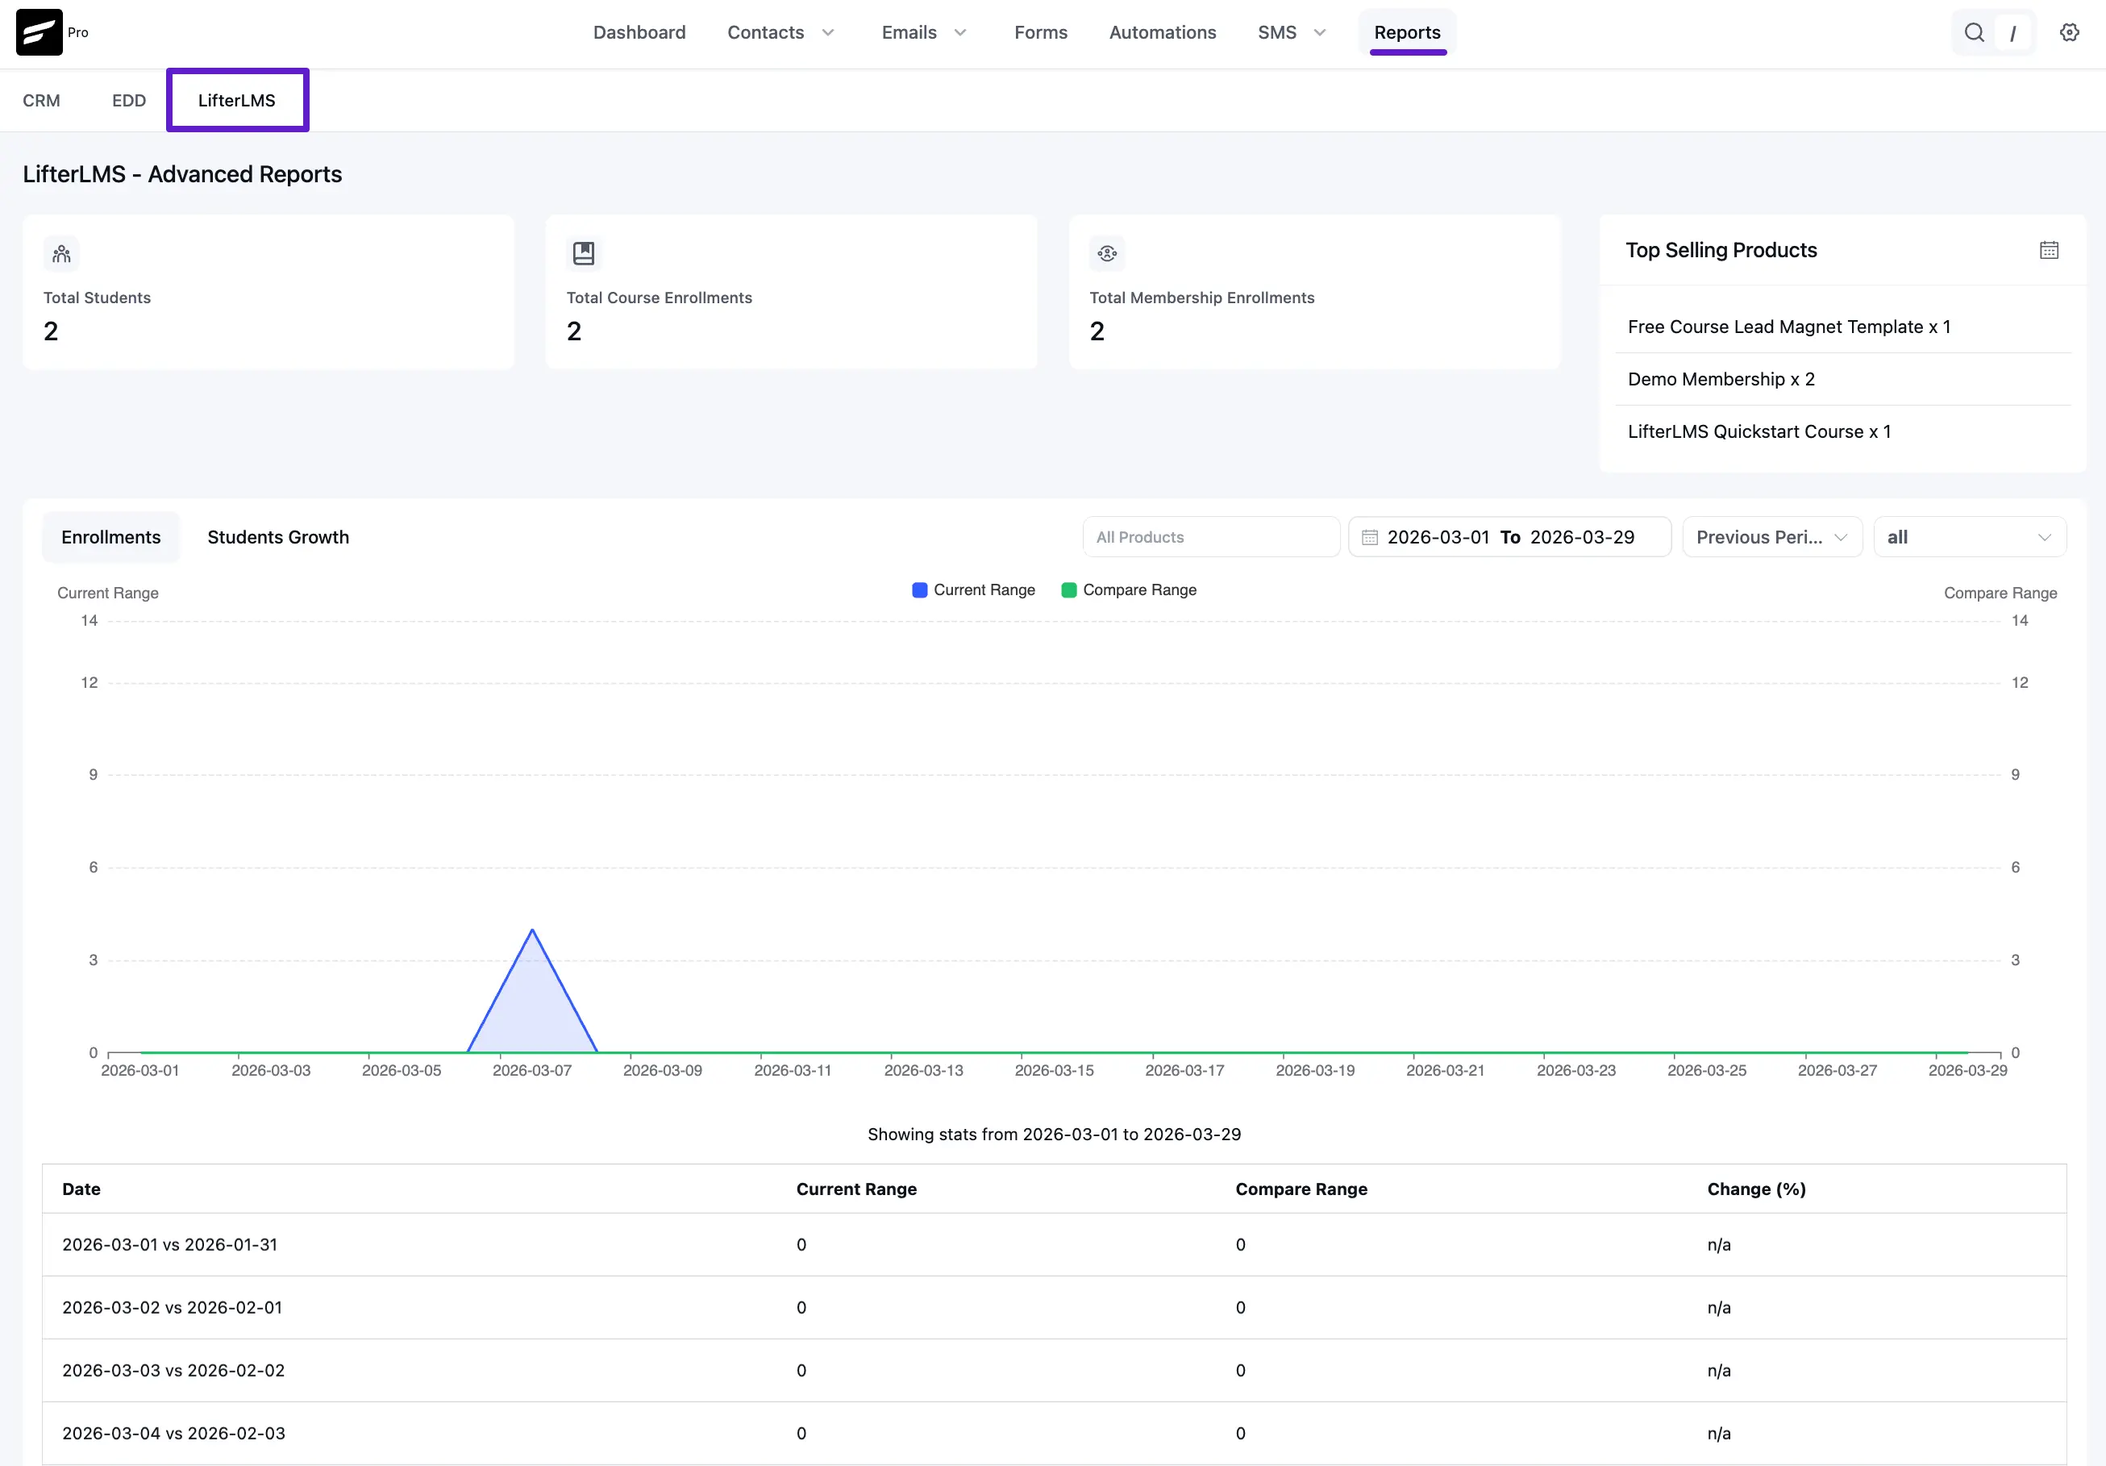
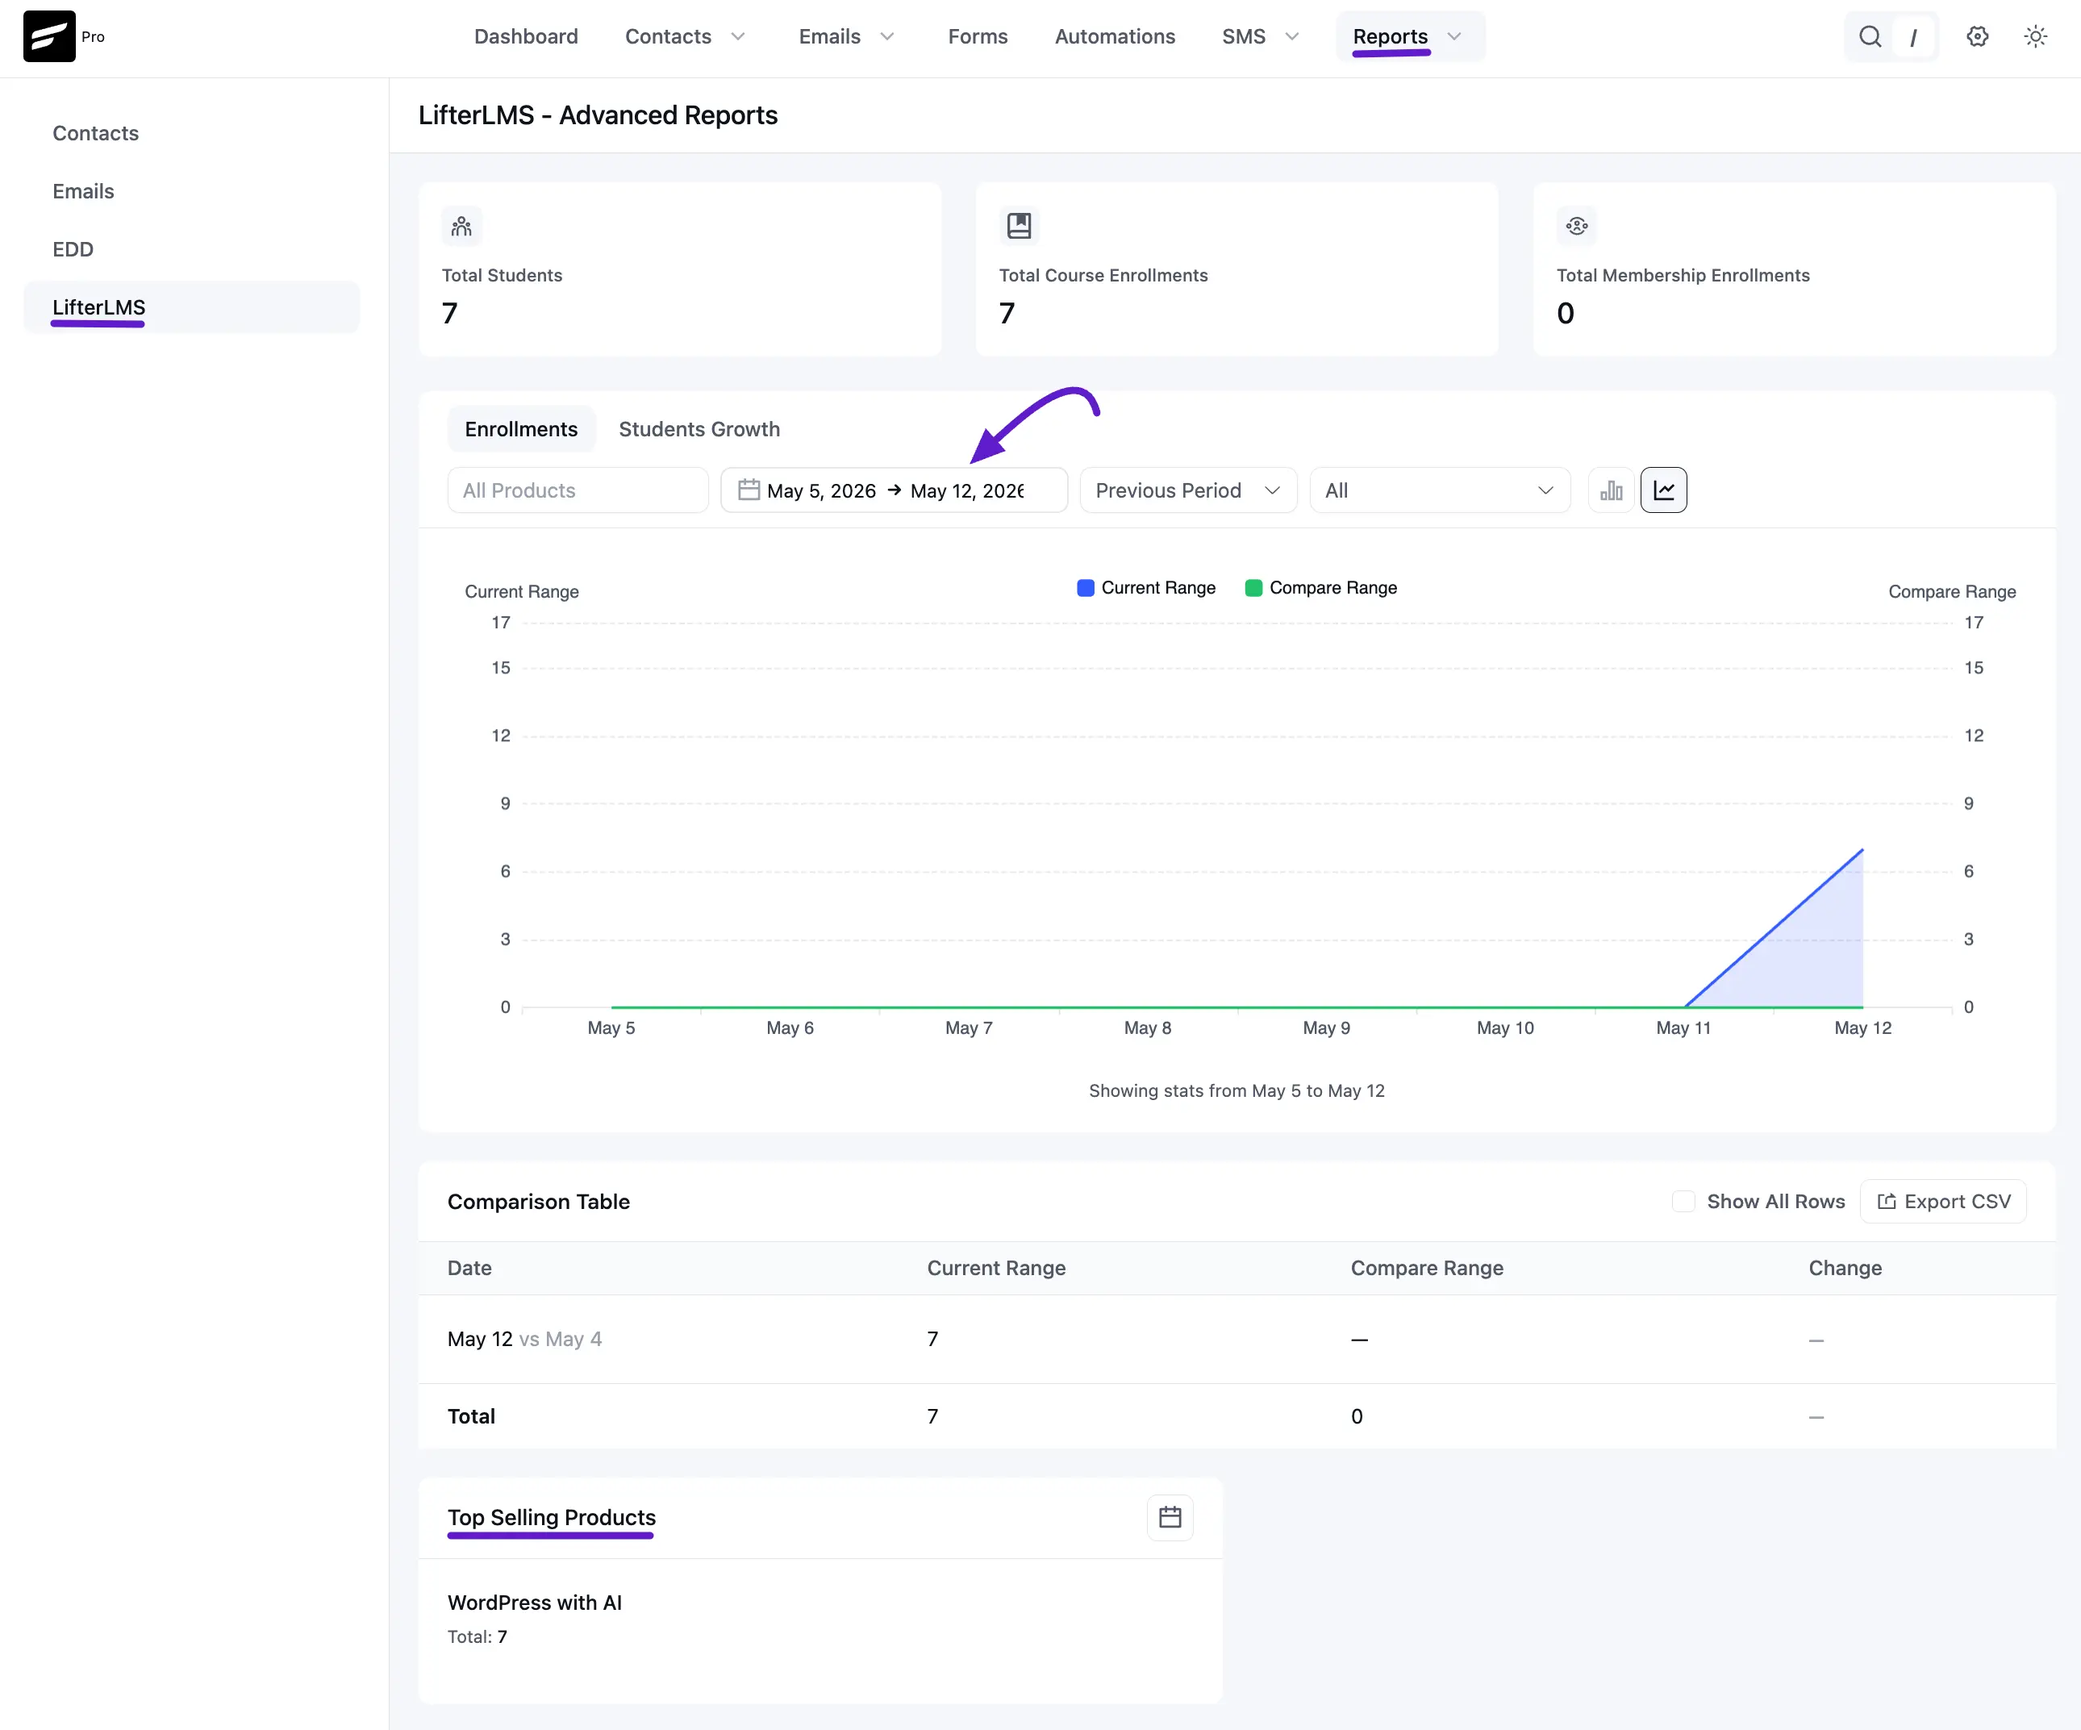
update LifterLMS - Advanced Reports

diff --git a/docs/advanced-reports/lifterlms-advanced-reports.md b/docs/advanced-reports/lifterlms-advanced-reports.md
@@ -7,16 +7,50 @@ order: 0
 
 # LifterLMS - Advanced Reports
 
-By navigating to **Reports** and selecting **LifterLMS**, you can access a comprehensive overview of your LMS performance. This advanced reporting dashboard helps you monitor student engagement and enrollment trends at a glance.
+The **LifterLMS Reports** page gives you a clear view of how your courses and student base are growing. By connecting your LMS data with FluentCRM, you can track enrollments and see which courses are performing best.
 
-**Key Performance Metrics:** At the top of the page, you can see three critical data points:
+To access this dashboard, go to the **Reports** menu in the top navbar and select **LifterLMS** from the left sidebar.
 
- * **Total Students:** The total number of unique students in your system.
- * **Total Course Enrollments:** The total number of times students have enrolled in courses.
- * **Top Selling Courses:** A list of your most popular courses by enrollment volume.
+>[!Note]
+>Make sure your Lifterlms data is properly synced with FluentCRM. You can read more about the [Lifterlms integration with FluentCRM](/docs/lifterlms-integration-with-fluentcrm).
 
-**Interactive Growth Charts:** The report features a visual graph that tracks **Enrollments** and **Student Growth** over time. You can hover over any point on the line graph to see the specific enrollment numbers for that date.
+## 1. High-Level Metrics
 
-**Date Range Filtering:** Use the **Date Filter** at the top right to customize your view. You can choose from presets like Last 30 Days, This Month, or set a Custom Range to analyze specific periods of your business growth.
+At the top of the report, you can quickly check three key stats:
+
+* **Total Students:** The number of unique people currently registered in your school.
+* **Total Course Enrollments:** The total number of times students have joined any of your courses.
+* **Total Membership Enrollments:** How many people have signed up for your memberships or course bundles.
+
+
+## 2. Visual Growth Charts
+
+This section features an interactive graph to help you spot trends over time.
+
+* **Toggle Views:** Switch between **Enrollments** (total course sign-ups) and **Students Growth** (new student acquisition).
+* **Comparison Feature:** Compare your **Current Range** (Blue line) against a **Compare Range** (Green line) from a previous period to measure your progress.
+* **Smart Filters:** Use the dropdowns to filter the data by specific dates or isolate the performance of a single course.
+
+
+## 3. Daily Comparison Table
+
+For a detailed look at the numbers, the **Comparison Table** breaks down the data day-by-day.
+
+* **Day-over-Day Audit:** Compare today’s performance directly against a previous date to see if your numbers are increasing.
+* **Data Export:** Click the **Export CSV** button if you need to download this information for use in spreadsheets or external reports.
+
+
+## 4. Top Selling Products
+
+The bottom section identifies your most popular content based on enrollment volume.
+
+* **Product Tracking:** See which courses are driving the most interest (e.g., *WordPress with AI*).
+* **Enrollment Totals:** View the exact number of students enrolled in each top-performing course. Use this data to identify which courses are prime candidates for special promotions or follow-up automations.
+
 
 ![lifterlms reports](/advanced-reports/lifterlms-advanced-reports/LifterLMS_reports.webp)
+
+
+
+
+

diff --git a/docs/advanced-reports/learndash-advanced-reports.md b/docs/advanced-reports/learndash-advanced-reports.md
@@ -11,6 +11,8 @@ The **LearnDash Reports** page helps you see how your online courses are growing
 
 To access these reports, navigate to the **Reports** dropdown in the top navbar and select **LearnDash** from the left sidebar.
 
+>[!Note]
+>Make sure your LearnDash data is properly synced with FluentCRM. You can read more about the [LearnDash integration with FluentCRM](/docs/learndash-integration-with-fluentcrm).
 
 ## 1. Enrollment Overview
 
